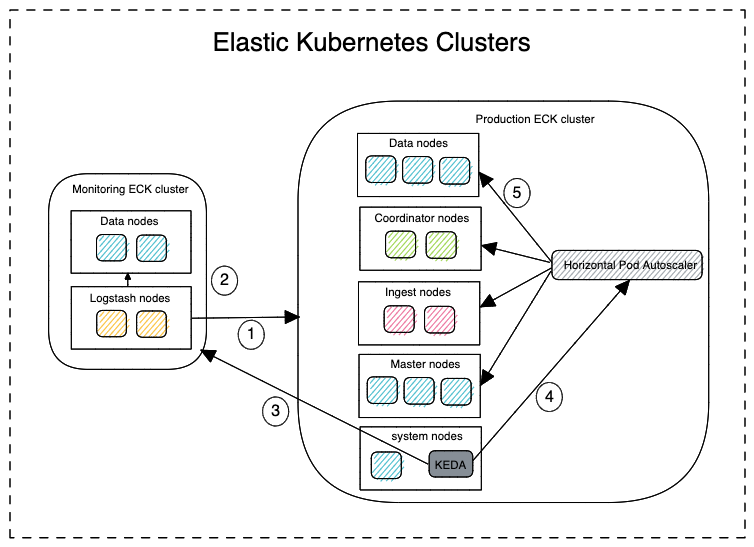
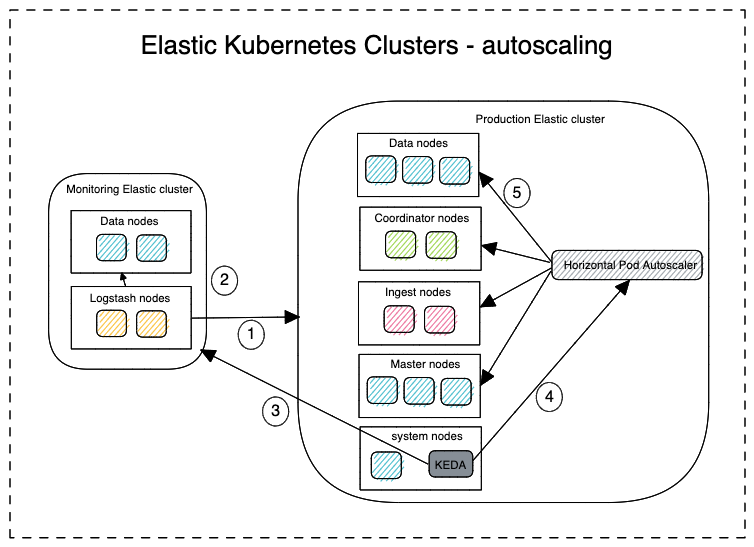
src/posts/keda-blog, static/blogs/keda-blog-diagram: Added ECK related limitations
1. ECK does not work with KEDA due to the operator pattern
2. Also modified the diagram

diff --git a/src/posts/how-to-scale-kubernetes-with-any-metric-using-keda.md b/src/posts/how-to-scale-kubernetes-with-any-metric-using-keda.md
@@ -19,7 +19,7 @@ featured: true
 
 ---
 
-Scaling an Elastic Cloud Kubernetes (ECK) or any Kubernetes cluster can be a challenge if you don't scale based on default scaling metrics such as CPU, Memory, or Storage. Luckily, Kubernetes has built-in support for Horizontal Pod Autoscaling (HPA) based on CPU and memory metrics. However, what if your cluster needs to scale based on other parameters? For example, how can we scale our cluster based on other key parameters like JVM heap size usage, or the count of pending tasks, or any other important metrics? Let's explore this further.
+Scaling an Elastic stack in Kubernetes or any Kubernetes cluster can be a challenge if you don't scale based on default scaling metrics such as CPU, Memory, or Storage. Luckily, Kubernetes has built-in support for Horizontal Pod Autoscaling (HPA) based on CPU and memory metrics. However, what if your cluster needs to scale based on other parameters? For example, how can we scale our cluster based on other key parameters like JVM heap size usage, or the count of pending tasks, or any other important metrics? Let's explore this further.
 
 ## Kubernetes Event-driven Autoscaling (KEDA)
 
@@ -32,7 +32,7 @@ Kubernetes KEDA comes to the rescue. From their website,
 
 KEDA is an incubating CNCF project which was accepted to CNCF on March 12, 2020. Read more about them [here](https://www.cncf.io/projects/keda/).
 
-In this blog post, we will explore how to scale a sample application such as Elastic Stack based on metrics other than CPU, memory, or storage usage while maintaining its functionality and performance.
+In this blog post, we will explore how to scale a sample application such as Elastic Stack based on metrics other than CPU, memory, or storage usage while maintaining its functionality and performance. The elastic stack recommends using Elastic Cloud Kubernetes (ECK) for kubernetes deployments which uses [operator pattern](https://kubernetes.io/docs/concepts/extend-kubernetes/operator/) which cannot use KEDA for auto scaling.
 
 ### Architecture
 
@@ -234,9 +234,11 @@ spec:
 
 The KEDA has now been set up within the production cluster to scale based on the number of JVM threads. Note that the values in the saved search can be tuned based on the needs.
 
-## Drawback
+## Drawbacks
 
-Complexity in setting up - As we can see setting up and debugging a Kubernetes cluster with KEDA deployed is not trivial. However, while autoscaling is available in the cloud, it is still not yet a fully mature concept. We expect this to become simpler in the future.
+1. Complexity in setting up - As we can see setting up and debugging a Kubernetes cluster with KEDA deployed is not trivial. However, while autoscaling is available in the cloud, it is still not yet a fully mature concept. We expect this to become simpler in the future.
+
+2. Does not work with ECK - Elastic officially recommends Elastic Cloud Kubernetes (ECK) for kubernetes deployments of elastic stack in the cloud and on-premise environments. This uses operator pattern which controls the stateful sets of the elastic nodes (pods). Due to this, autoscaling by KEDA is limited by the elastic operator running inside the kubernetes cluster.
 
 ## Conclusions
 
@@ -247,6 +249,7 @@ Moreover, the Kubernetes built-in autoscaler has the capability to scale based o
 ## References
 
 - [CNCF - KEDA project](https://www.cncf.io/projects/keda/)
+- [Kubernetes operator pattern](https://kubernetes.io/docs/concepts/extend-kubernetes/operator/)
 - [Cluster node stats api documentation](https://www.elastic.co/guide/en/elasticsearch/reference/current/cluster-nodes-stats.html)
 - [Elasticsearch search template](https://www.elastic.co/guide/en/elasticsearch/reference/current/search-template.html)
 - [KEDA deployment](https://keda.sh/docs/2.10/deploy/)
